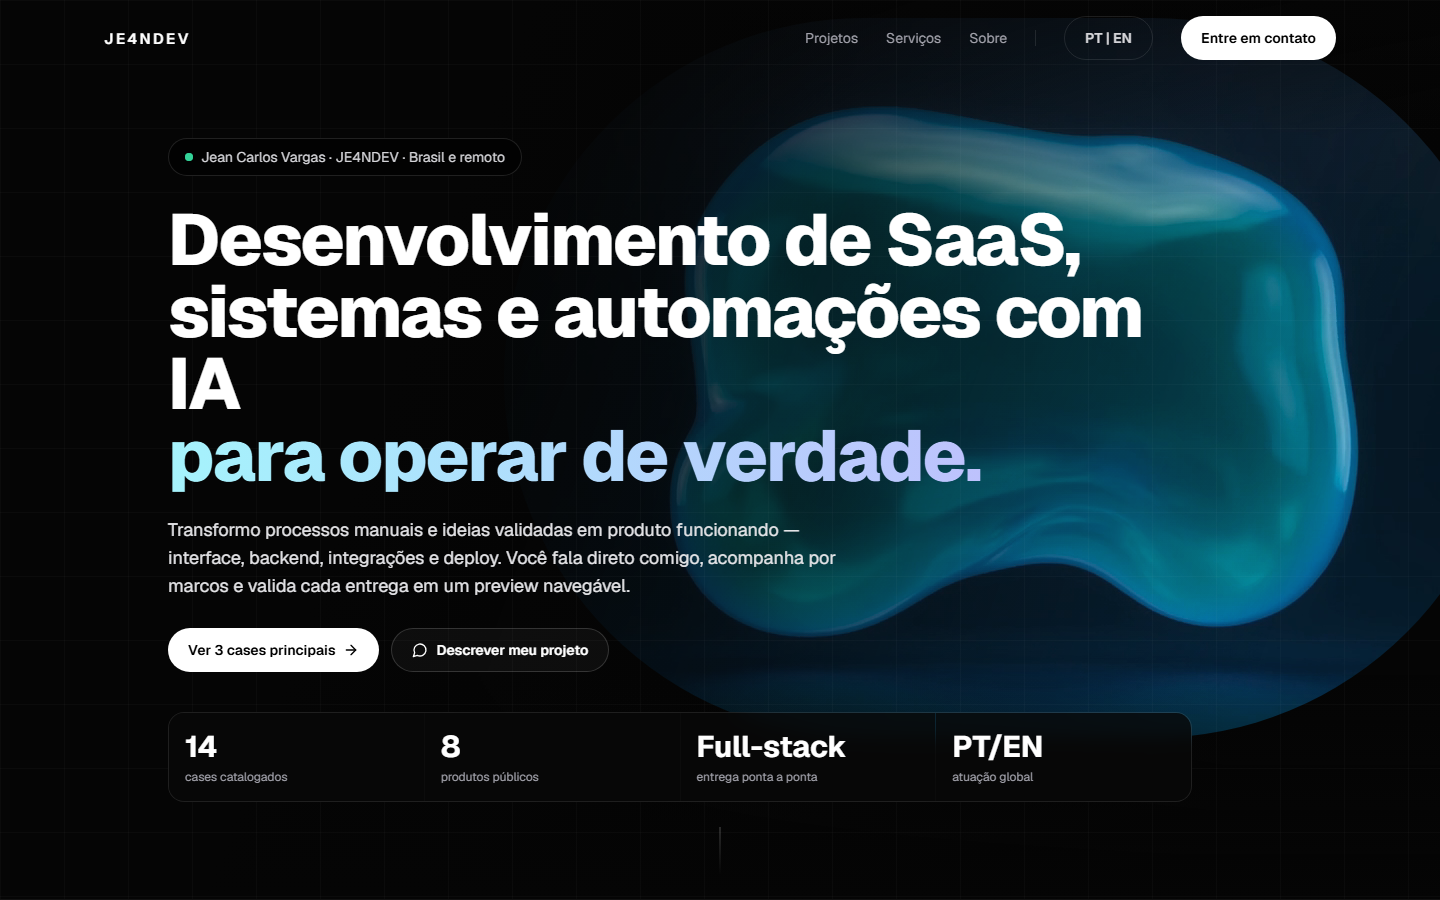
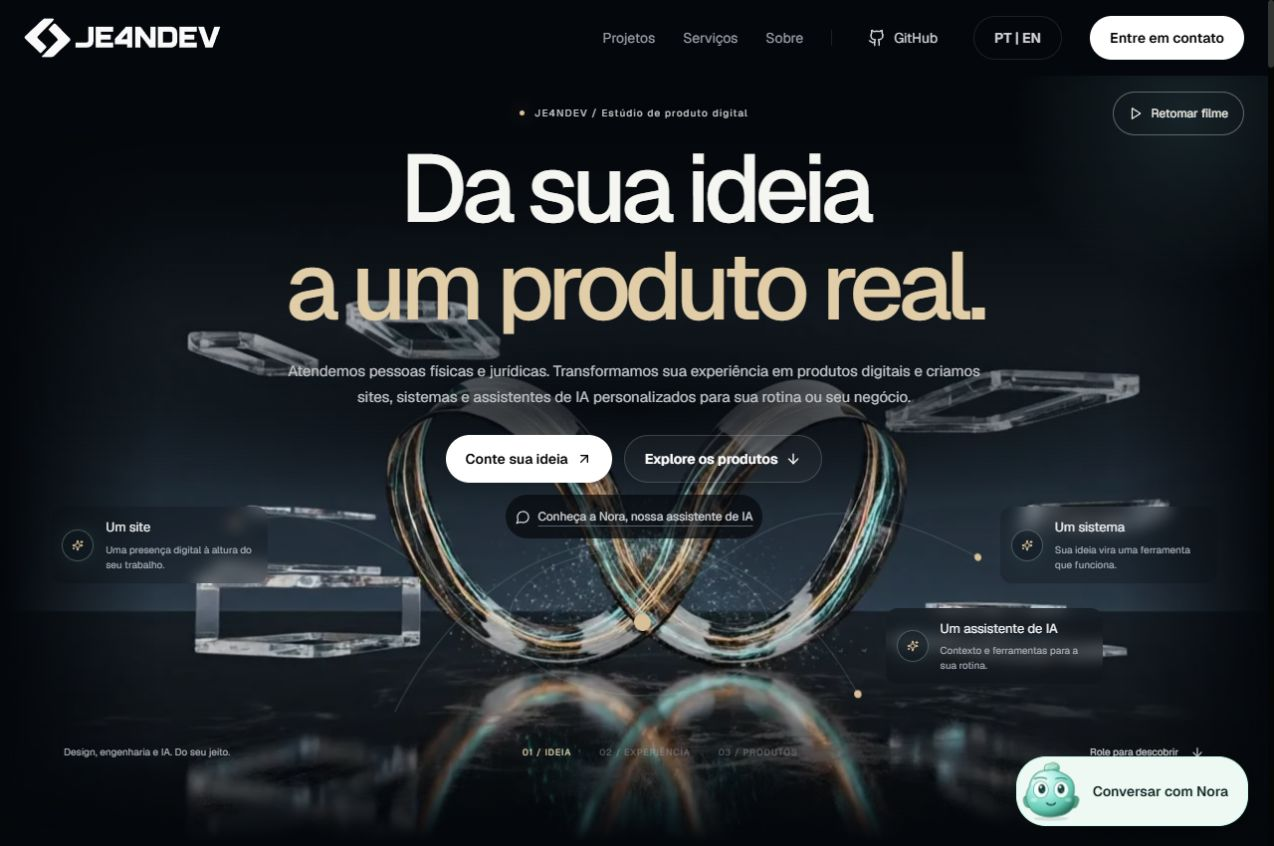
docs: refresh portfolio README and Nora case

diff --git a/README.md b/README.md
@@ -1,222 +1,175 @@
-<!-- markdownlint-disable MD013 MD033 MD036 MD041 -->
+<!-- markdownlint-disable MD013 MD033 MD041 -->
 
 <div align="center">
 
-<img src="public/je4ndev-logo.svg" alt="JE4NDEV" width="260" />
+<picture>
+  <source media="(prefers-color-scheme: dark)" srcset="docs/screenshots/readme/brand-white.svg" />
+  <source media="(prefers-color-scheme: light)" srcset="docs/screenshots/readme/brand-black.svg" />
+  <img src="docs/screenshots/readme/brand-black.svg" alt="JE4NDEV" width="300" />
+</picture>
 
-# JE4NDEV
+# Da sua ideia a um produto real.
 
-**Jean Carlos Vargas** · desenvolvimento de SaaS, sistemas e automações com IA
+**Sites, sistemas e assistentes de IA para pessoas físicas e jurídicas.**
 
-[![Live](https://img.shields.io/badge/site-je4ndev.com-111111?style=for-the-badge)](https://je4ndev.com/pt)
-[![Next.js](https://img.shields.io/badge/Next.js-16-000000?style=for-the-badge&logo=next.js)](https://nextjs.org)
-[![TypeScript](https://img.shields.io/badge/TypeScript-strict-3178c6?style=for-the-badge&logo=typescript&logoColor=white)](https://www.typescriptlang.org)
-[![License](https://img.shields.io/badge/license-MIT-22c55e?style=for-the-badge)](LICENSE)
+Portfólio e site do estúdio JE4NDEV, criado por Jean Carlos Vargas. Uma apresentação dos produtos que construímos e uma experiência real de atendimento com a **Nora**.
 
-Portfólio bilíngue (PT/EN) com cases reais, prova visual revisada e oferta founder-led.
+[![Site](https://img.shields.io/badge/site-je4ndev.com-111111?style=flat-square)](https://je4ndev.com/pt) [![Next.js](https://img.shields.io/badge/Next.js-16-000000?style=flat-square&logo=next.js)](https://nextjs.org) [![TypeScript](https://img.shields.io/badge/TypeScript-strict-3178c6?style=flat-square&logo=typescript&logoColor=white)](https://www.typescriptlang.org) [![Licença](https://img.shields.io/badge/licença-MIT-168577?style=flat-square)](LICENSE)
 
-[Site](https://je4ndev.com/pt) · [Serviços](https://je4ndev.com/pt#services) · [WhatsApp](https://wa.me/5511948477047)
+[Site em português](https://je4ndev.com/pt) · [English website](https://je4ndev.com/en) · [Nora](#nora) · [Produtos](#produtos) · [Desenvolvimento](#desenvolvimento)
 
-<img src="docs/screenshots/readme/home-desktop.png" alt="Home do portfólio JE4NDEV" width="100%" />
+<img src="docs/screenshots/readme/home-desktop.png" alt="Página inicial atual da JE4NDEV: marca, apresentação de serviços, cena animada e acesso à Nora" width="100%" />
 
 </div>
 
-## O que o site precisa deixar claro
+## O projeto
 
-1. O que a JE4NDEV constrói.
-2. Quais produtos já existem, com URL e evidência.
-3. O que é produto ao vivo, demo, case ou ferramenta interna.
-4. Como começar um recorte com escopo, preview e revisão direta.
+A JE4NDEV transforma ideias e problemas da rotina em produtos digitais: uma presença profissional na internet, um sistema sob medida, uma integração entre ferramentas ou um assistente de IA personalizado.
 
-Catálogo atual: **14 cases**, **8 produtos públicos**, **3 flagships**.
+O site combina identidade própria, movimento, projetos com contexto e contato direto com quem conduz o trabalho. A Nora participa dessa experiência: ajuda o visitante a explicar o que precisa e organiza as informações para uma conversa com a equipe.
 
-## Flagships
+- Experiência responsiva em **português e inglês**.
+- Projetos apresentados com problema, entrega, tecnologias e links disponíveis.
+- Páginas de serviço e cases com conteúdo indexável.
+- Vídeo, animações e alternativas para quem prefere movimento reduzido.
+- GitHub acessível no cabeçalho, na seção Sobre e no rodapé.
+- Atendimento para pessoas físicas, profissionais autônomos e empresas.
 
-<table>
-<tr>
-<td width="33%" valign="top">
+## Produtos
 
-**[ArchScene](https://archscene.com)**
+Os quatro destaques atuais representam diferentes tipos de entrega. Os cases informam o nível de prova disponível, incluindo demonstrações e dados fictícios quando utilizados.
 
-Renders arquitetônicos com IA.
-
-<img src="public/projects/captures/archscene-home-latest.png" alt="ArchScene" />
-
-</td>
-<td width="33%" valign="top">
-
-**[Arremata Radar](https://arremataradar.com)**
-
-Inteligência para imóveis da Caixa.
-
-<img src="public/projects/captures/arremata-radar-home-latest.png" alt="Arremata Radar" />
-
-</td>
-<td width="33%" valign="top">
-
-**[FullCommerce360](https://fullcommerce360.com)**
-
-Operação do seller no Mercado Livre.
-
-<img src="public/projects/captures/fullcommerce360-home-latest.png" alt="FullCommerce360" />
-
-</td>
-</tr>
-</table>
-
-## Produtos públicos
-
-| Produto | Entrega | Prova |
+| Produto | O que apresenta | Conhecer |
 | --- | --- | --- |
-| [ArchScene](https://archscene.com) | Plataforma de renders arquitetônicos com IA | Produto público |
-| [Arremata Radar](https://arremataradar.com) | Inteligência para imóveis da Caixa | Landing pública + captura |
-| [FullCommerce360](https://fullcommerce360.com) | Sistema operacional do seller no Mercado Livre | Landing pública + captura |
-| [NexPanel](https://nexpanel.agenciamep.com) | SaaS multi-tenant para revenda | Dashboard sanitizado |
-| [Vultrix 3D](https://www.vultrix3d.com.br) | Custos, precificação, estoque e financeiro | Dashboard sanitizado |
-| [Stop Ultimate](https://stopultimate.vercel.app) | Jogo multiplayer com juiz de IA | Jogo público |
-| [Alchemix Auditor](https://alchemix-auditor.vercel.app) | Checklist público de auditoria Web3 | Interface pública; não substitui auditoria independente |
-| [Ethena Scanner](https://ethena-scanner.vercel.app) | Scanner de segurança em demonstração | Fluxo público; não comprova segurança independente |
+| **MepMail** | E-mail transacional integrado a aplicações e agentes, com API, SMTP e MCP sobre Amazon SES. Adaptação e operação sobre uma base open source atribuída. | [Case](https://je4ndev.com/pt/projects/mepmail) · [Produto](https://mepmail.je4ndev.com) |
+| **ArchScene** | Fluxo de renders arquitetônicos com IA, organização por projeto e processamento de cenas em lote. | [Case](https://je4ndev.com/pt/projects/archscene) · [Produto](https://archscene.com) |
+| **FullCommerce360** | Organização da operação de marketplace, produtos e contas conectadas. A apresentação inclui demonstrações identificadas. | [Case](https://je4ndev.com/pt/projects/fullcommerce360) · [Produto](https://fullcommerce360.com) |
+| **URLPivot** | Links com destino editável, QR Codes reutilizáveis e Pages, com integração para agentes via MCP. | [Case](https://je4ndev.com/pt/projects/urlpivot) · [Produto](https://urlpivot.app) |
 
-URLPivot está no catálogo como **demo** (landing dogfood, sem cadastro público). Hermes Agentes e OpenClaw Gateway aparecem com limite explícito de prova.
+[Explore os projetos no site →](https://je4ndev.com/pt#work)
 
-## Capturas do portfólio
+## Nora
+
+**Um assistente de IA em produção e um case do que podemos criar para seu site, aplicativo ou rotina.**
+
+A Nora ajuda tanto quem chega com um projeto definido quanto quem ainda precisa descobrir o primeiro passo. Ela conversa sobre sites, sistemas, integrações e assistentes personalizados, considerando o objetivo, as ferramentas existentes e as restrições informadas.
+
+### Da conversa ao atendimento
+
+1. **Entrada com contexto.** O visitante escolhe entre experimentar a Nora ou conversar sobre um assistente para seu projeto. Informa nome e WhatsApp com DDI e autoriza o registro. Testar não equivale a pedir orçamento.
+2. **Levantamento da necessidade.** A conversa organiza objetivo, situação atual, solução desejada, restrições e dúvidas pendentes. A Nora pode sugerir um primeiro escopo e perguntas para a avaliação humana.
+3. **Resumo revisável.** O visitante pode revisar o texto e pedir retorno da equipe. A Nora não confirma contratação, preço, prazo ou ações que a equipe ainda não executou.
+4. **Contato organizado.** A integração atualiza o mesmo registro em uma planilha privada do Google Sheets. Resumo, escopo e próximos passos acompanham o contato; status de atendimento e responsável permanecem sob controle da equipe.
+5. **Continuidade opcional.** O visitante pode ativar memória de projetos, revisar fatos e apagá-los. A recuperação usa o número cadastrado **mais um código pessoal**; o telefone sozinho não abre a memória.
+
+<img src="docs/screenshots/readme/nora-conversation.png" alt="Nora respondendo a um cenário fictício de validação: levantamento de escopo de um assistente para pedidos de aula, com revisão humana e pagamentos fora da primeira etapa" width="100%" />
+
+*Conversa real de validação com cenário fictício. A imagem não contém contatos ou dados de clientes.*
+
+### Experiência em diferentes telas
 
 <table>
-<tr>
-<td width="68%" valign="top">
-
-**Arquivo de projetos**
-
-<img src="docs/screenshots/readme/project-universe.png" alt="Catálogo filtrável de projetos JE4NDEV" />
-
-</td>
-<td width="32%" valign="top">
-
-**Mobile · 390 px**
-
-<img src="docs/screenshots/readme/home-mobile-390.png" alt="Hero do portfólio JE4NDEV no mobile" />
-
-</td>
-</tr>
+  <tr>
+    <td width="50%" valign="top">
+      <strong>Site no celular</strong><br /><br />
+      <img src="docs/screenshots/readme/home-mobile-390.png" alt="JE4NDEV em tela de 390 pixels, com GitHub no cabeçalho e mascote da Nora" width="100%" />
+    </td>
+    <td width="50%" valign="top">
+      <strong>Primeiro contato com a Nora</strong><br /><br />
+      <img src="docs/screenshots/readme/nora-onboarding.png" alt="Entrada da Nora com escolha de intenção e campos vazios para nome e WhatsApp" width="100%" />
+    </td>
+  </tr>
 </table>
 
-## Oferta
+### Memória, privacidade e proteção
 
-- [Desenvolvimento de SaaS sob medida](https://je4ndev.com/pt/services/desenvolvimento-saas)
-- [Automações com IA e integrações](https://je4ndev.com/pt/services/automacoes-ia)
-- [Agentes de IA privados](https://je4ndev.com/pt/services/agentes-ia-privados)
+- A memória de fatos do visitante é **opcional**, separada do cadastro de atendimento, com até cinco projetos e expiração de 30 dias após a última atualização.
+- O visitante pode editar a memória ou solicitar sua exclusão pela interface. O vínculo por número e código de recuperação não é uma verificação de titularidade do WhatsApp.
+- O modelo é acessado por uma ponte autenticada no servidor. O navegador não recebe credenciais do provedor nem acesso às ferramentas e arquivos do operador.
+- Turnstile, CSRF, validação de origem e ingresso confiável, limites de requisição e concorrência protegem os endpoints públicos.
+- A fila de contatos mantém tentativas de sincronização com o Sheets e preserva campos manuais. Avisos privados no Telegram são uma integração separada; um registro sincronizado não significa atendimento humano concluído.
+- A concorrência da IA tem seu próprio limite. Visitar o site não ocupa uma inferência; quando o chat está ocupado, o texto é preservado para uma nova tentativa manual. A versão atual não oferece fila automática de conversas.
 
-## Recursos
+O processamento de IA e a retenção de dados estão descritos na [política de privacidade](https://je4ndev.com/pt/privacidade). Cadastro, memória e pedido de contato têm finalidades distintas.
 
-- Homes e cases indexáveis em `/pt` e `/en`
-- Páginas de serviço, termos e privacidade
-- Catálogo pesquisável, com nível de prova por case
-- CTAs para produto, GitHub, demo ou WhatsApp
-- SEO: canonical, hreflang, Open Graph, JSON-LD, sitemap
-- Analytics first-party sem cookie, schema fechado
-- Vídeo do hero só no desktop, depois do first paint
-- Headers `nosniff`, `DENY` e Permissions-Policy
-
-## Stack
-
-| Camada | Tecnologias |
-| --- | --- |
-| Frontend | Next.js 16, React 19, TypeScript, Tailwind CSS |
-| Motion | Framer Motion, GSAP, Lenis |
-| Conteúdo | TypeScript + Zod |
-| Imagens | `next/image`, WebP e capturas versionadas |
-| SEO | Metadata API, JSON-LD, sitemap, robots, SSG |
-| Qualidade | ESLint, TypeScript strict, `npm run gate` local ou VPS |
-| Deploy | VPS `jeanvargas-dev` + `scripts/deploy-vps.sh` |
+[Experimente a Nora no site →](https://je4ndev.com/pt)
 
 ## Arquitetura
 
-```text
-src/
-├── app/[locale]/
-│   ├── page.tsx
-│   ├── projects/[slug]/
-│   ├── services/[slug]/
-│   ├── termos/
-│   └── privacidade/
-├── components/
-│   ├── brand/
-│   ├── legal/
-│   ├── layout/
-│   ├── projects/
-│   └── sections/
-├── data/
-│   ├── company.ts
-│   ├── flagships.ts
-│   ├── legal.ts
-│   ├── projects.ts
-│   └── services.ts
-└── i18n/
+```mermaid
+flowchart LR
+  Visitante["Visitante · PT/EN"] --> Site["Site e interface da Nora"]
+  Site --> API["API Next.js"]
+  API --> Modelo["Hermes dedicado · modelo de IA"]
+  API --> Memoria["Sessão e memória do visitante"]
+  API --> Contatos["Estado e fila de contatos"]
+  Contatos --> Sheets["Google Sheets privado"]
+  Contatos --> Equipe["Aviso privado para a equipe"]
 ```
 
-O catálogo em `src/data/projects.ts` é a fonte de verdade. `npm run audit:projects` bloqueia prioridade duplicada, asset ausente e prova inconsistente.
+| Camada | Implementação |
+| --- | --- |
+| Interface | Next.js 16.3, React 19, TypeScript e Tailwind CSS |
+| Movimento | Framer Motion, GSAP, Lenis e mídia com controle de reprodução |
+| Conteúdo | Dados tipados, Zod, traduções PT/EN e páginas de case |
+| Descoberta | Metadata API, canonical, hreflang, Open Graph, JSON-LD, sitemap e regras de crawling |
+| Nora | API no servidor, ponte autenticada para Hermes, briefing estruturado e memória opcional |
+| Contatos | Persistência no servidor, sincronização assinada com Apps Script/Sheets e notificações |
+| Qualidade | ESLint, TypeScript strict, testes e auditorias locais |
+| Produção | Runtime Next.js standalone construído localmente e promovido na VPS |
 
-## Execução local
+```text
+src/app/                 Páginas localizadas e APIs de conversa, visitantes e contatos
+src/components/          Marca, layout, projetos, movimento e interface da Nora
+src/data/                Empresa, serviços, catálogo, apresentações e conteúdo de SEO
+src/i18n/                Traduções e navegação em português e inglês
+src/lib/concierge/       Validação, quotas, contexto, sessões e memória
+src/lib/leads/           Registros de contato, sincronização e retenção
+integrations/nora-sheets/ Relay autenticado para Google Sheets
+scripts/                 Auditorias e jobs operacionais
+docs/                    Documentação e capturas
+```
+
+## Desenvolvimento
+
+Requer **Node.js 20.9 ou superior** e npm. No checkout existente:
 
 ```bash
-git clone https://github.com/JE4NVRG/jeanvargas.dev.git
-cd jeanvargas.dev
 npm ci
 npm run dev
 ```
 
-Abra [http://localhost:3000/pt](http://localhost:3000/pt).
+Abra [localhost:3000/pt](http://localhost:3000/pt) ou [localhost:3000/en](http://localhost:3000/en).
 
-## Comandos
+Para configurar as integrações, use [.env.example](.env.example) como referência e mantenha os valores reais em um arquivo local ignorado pelo Git ou na configuração privada do servidor. A Nora depende de sessão, ingresso confiável e ponte de IA configurados; instalar o frontend não provisiona o modelo ou a planilha.
 
-| Comando | Objetivo |
+| Comando | Finalidade |
 | --- | --- |
-| `npm run dev` | Servidor local com Turbopack |
-| `npm run lint` | ESLint |
-| `npm run typecheck` | Tipos de rotas + TypeScript |
+| `npm run dev` | Desenvolvimento local com Turbopack |
+| `npm run lint` | Análise com ESLint |
+| `npm run typecheck` | Tipos das rotas e TypeScript |
+| `npm test` | Testes de analytics, conversa, memória, contatos e conteúdo |
 | `npm run audit:projects` | Integridade do catálogo e dos assets |
-| `npm run audit:links` | Links públicos dos projetos |
-| `npm run test:analytics` | Atribuição, schema, privacidade e relatório |
-| `npm run build` | Build de produção |
-| `npm run gate` | Gate local/VPS: lint, types, analytics, catálogo |
-| `npm run ci:local` | Alias do gate, sem GitHub Actions |
-| `npm run validate` | Gate + links de campanha + build |
-| `scripts/deploy-vps.sh` | Pull, gate, build e restart na Luna |
+| `npm run audit:seo` | Auditoria de metadados e conteúdo de descoberta |
+| `npm run audit:links` | Verificação dos links públicos dos projetos |
+| `npm run gate` | Lint, tipos, testes e auditoria de projetos |
+| `npm run validate` | Gate, validação dos links de campanha e build |
+| `npm run build` | Construção do artefato de produção |
+| `npm run sync:leads` | Sincronização de contatos com o Sheets, quando configurada |
+| `npm run notify:leads` | Job de avisos de contatos, quando configurado |
 
-## Qualidade
+### Entrega
 
-Não usamos GitHub Actions. O gate é gratuito e roda na máquina local ou na VPS:
+Desenvolvimento, testes e build rodam localmente. A publicação promove um artefato mínimo, verifica a revisão servida e a jornada afetada, e preserva um rollback válido. A validação da revisão em produção incluiu **291 testes aprovados**, build Linux local, smoke do runtime e jornadas no navegador; isso não representa um benchmark de carga.
 
-```bash
-npm ci
-npm run gate
-```
-
-Antes de publicar na Luna:
-
-```bash
-ssh luna-vps 'bash /home/jean/jeanvargas.dev/scripts/deploy-vps.sh'
-```
-
-Nenhuma chave, cookie ou `.env` deve ser versionado.
+A rotina `scripts/deploy-vps.sh` é histórica e faz build remoto. Ela não é o fluxo vigente de entrega. Chaves, cookies, `.env`, contatos, códigos de recuperação e estado do runtime ficam fora do repositório e das imagens de documentação.
 
 ## Contato
 
-- Site: [je4ndev.com](https://je4ndev.com/pt)
-- E-mail: [jean@je4ndev.com](mailto:jean@je4ndev.com)
-- GitHub: [@JE4NVRG](https://github.com/JE4NVRG)
-- LinkedIn: [in/je4ndev](https://www.linkedin.com/in/je4ndev/)
-- WhatsApp: [iniciar conversa](https://wa.me/5511948477047)
-- [Termos](https://je4ndev.com/pt/termos) · [Privacidade](https://je4ndev.com/pt/privacidade)
+Quer construir algo assim? Conte a ideia ou o problema que deseja resolver.
+
+[je4ndev.com](https://je4ndev.com/pt) · [WhatsApp](https://wa.me/5511914826568) · [jean@je4ndev.com](mailto:jean@je4ndev.com) · [GitHub @JE4NVRG](https://github.com/JE4NVRG) · [LinkedIn](https://www.linkedin.com/in/je4ndev/)
 
 ## Licença
 
-[MIT](LICENSE)
-
----
-
-<div align="center">
-
-Criado por **Jean Carlos Vargas / JE4NDEV**
-
-</div>
+O código deste portfólio está disponível sob a [licença MIT](LICENSE). Produtos e bases open source mencionados nos cases têm suas próprias licenças e atribuições.
